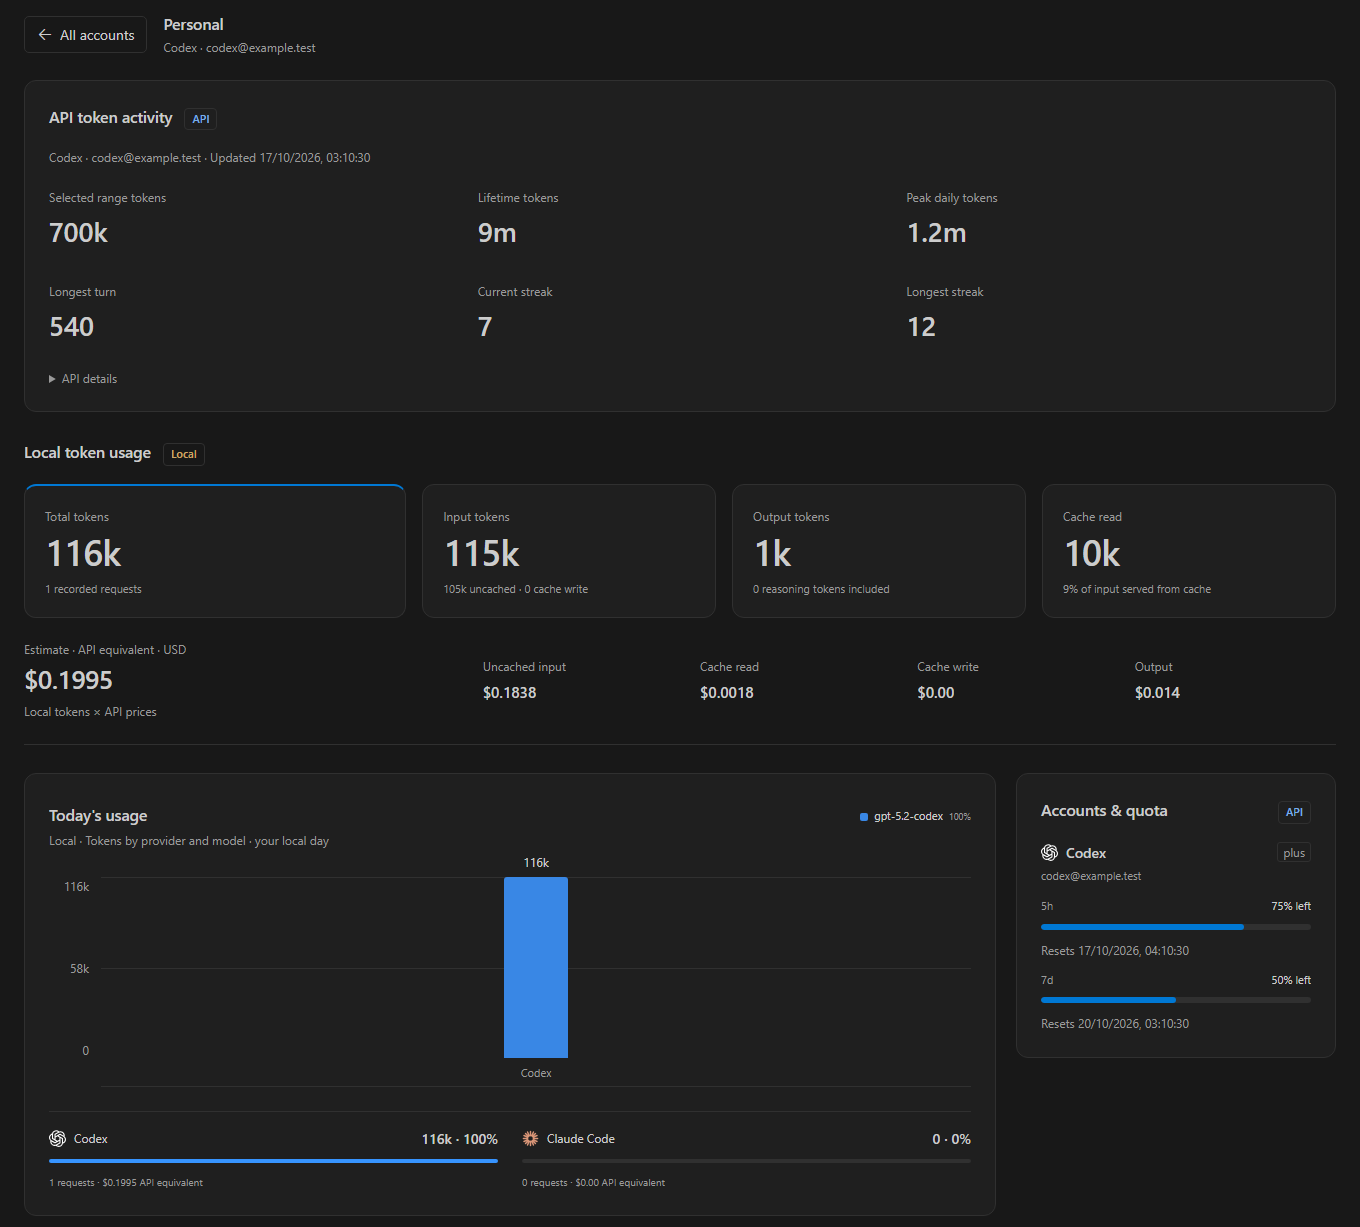
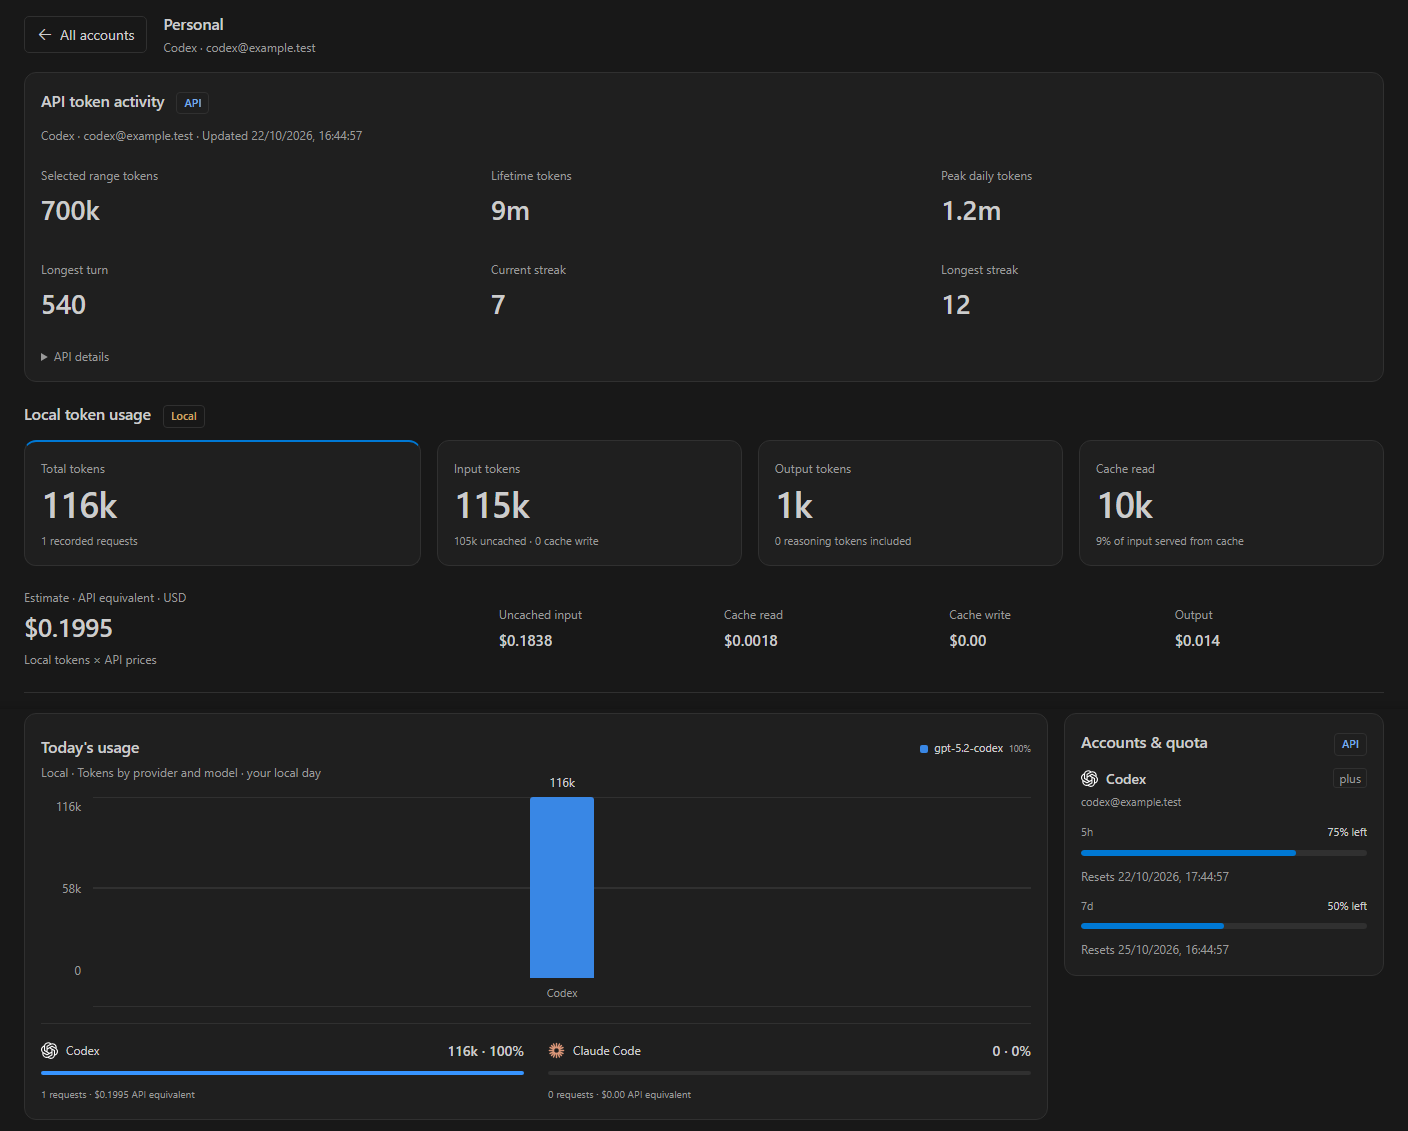
feat: add quota cycle capacity display and estimation logic

diff --git a/src/settings.ts b/src/settings.ts
@@ -738,6 +738,15 @@ function renderQuotaEstimates() {
         source.title = trend.source === 'API' ? 'API counters · token increase ÷ quota percentage-point increase' : trend.source === 'Device'
           ? 'Local history includes unknown, inferred and user-confirmed sessions. Other accounts with native turn evidence are excluded; usage on other devices is not recorded.' : 'Local · account-matched native turn history';
         row.append(amount, source);
+        const latestApi = trend.source === 'API' && meter ? trend.observations.find(sample => sample.resetsAt === meter.resetsAt && (!baseline || sample.from >= baseline.start.to)) : undefined;
+        const current = trend.source === 'API' ? latestApi : trend.observations.find(sample => sample.resetsAt > Date.now());
+        const cycleRate = current ? current.observedTokens / current.usedPercent : trend.tokensPerPercent;
+        const capacity = node('div', undefined, 'quota-cycle-capacity');
+        capacity.dataset.basis = current ? 'current' : 'history';
+        capacity.append(node('span', 'Estimated full cycle', 'muted'), node('strong', `≈ ${compact(cycleRate * 100)} tokens / cycle`),
+          node('small', current ? 'Based on this cycle’s recorded usage' : 'Based on the weighted average of recorded cycles', 'muted'));
+        capacity.title = `${number(Math.round(cycleRate * 100))} estimated tokens for 100% quota · ${number(cycleRate)} tokens / 1% × 100`;
+        row.append(capacity);
         if (trend.source === 'Device') row.append(node('small', 'Includes history without native turn identity', 'muted'));
         if (trend.changePercent !== undefined) {
           const change = Math.round(trend.changePercent * 10) / 10;
@@ -747,14 +756,12 @@ function renderQuotaEstimates() {
           comparison.title = `Earlier cycles: ${number(Math.round(trend.baselineTokensPerPercent!))} tokens / 1%`;
           row.append(comparison);
         }
-        const latestApi = trend.source === 'API' && meter ? trend.observations.find(sample => sample.resetsAt === meter.resetsAt && (!baseline || sample.from >= baseline.start.to)) : undefined;
         if (trend.source === 'API') {
           if (latestApi) {
             const rate = latestApi.observedTokens / latestApi.usedPercent;
             row.append(node('p', `≈ ${compact(rate * (100 - meter!.usedPercent))} tokens left`, 'muted'));
           } else row.append(node('p', waiting, 'muted'));
         } else {
-          const current = trend.observations.find(sample => sample.resetsAt > Date.now());
           const detail = node('p', current ? `≈ ${compact(current.observedTokens / current.usedPercent * (100 - current.usedPercent))} tokens left` : 'Waiting for current cycle usage', 'muted');
           if (current) detail.title = `${number(current.observedTokens)} tokens from ${new Date(current.from).toLocaleString()} to ${new Date(current.to).toLocaleString()}`;
           row.append(detail);

diff --git a/tests/settings.test.ts b/tests/settings.test.ts
@@ -428,6 +428,8 @@ describe('Settings usage dashboard', () => {
     expect(root.textContent).toContain('Device estimate · 2 cycles');
     expect(root.textContent).toContain('Includes history without native turn identity');
     expect(root.querySelector('.quota-estimate-value')!.getAttribute('title')).toBe('37,500 tokens per percentage point');
+    expect(root.querySelector('.quota-cycle-capacity')?.getAttribute('data-basis')).toBe('current');
+    expect(root.querySelector('.quota-cycle-capacity')?.getAttribute('title')).toContain('5,000,000 estimated tokens for 100% quota');
     const latest = root.querySelectorAll('.quota-trend-history tbody tr:first-child td');
     expect(latest[0]?.textContent).toContain('current'); expect(latest[0]?.getAttribute('title')).toContain('Partial observation');
     expect(latest[1]?.textContent).toBe('100% → 80%');
@@ -476,6 +478,8 @@ describe('Settings usage dashboard', () => {
     expect(cells[3]?.textContent).toBe('2');
     expect(cells[4]?.getAttribute('title')).toBe('200,000 tokens ÷ 2 percentage points');
     expect(root.textContent).toContain('8.2M tokens left');
+    expect(root.querySelector('.quota-cycle-capacity')?.textContent).toContain('≈ 10M tokens / cycle');
+    expect(root.querySelector('.quota-cycle-capacity')?.getAttribute('data-basis')).toBe('current');
     const before = root.textContent; choose('filter-provider', 'Claude'); expect(root.textContent).toBe(before);
   });
   it('shows legacy API deltas without inventing a 100% starting point', () => {
@@ -487,6 +491,8 @@ describe('Settings usage dashboard', () => {
     const cells = document.querySelectorAll('.quota-trend-history tbody tr:first-child td');
     expect(cells[1]?.textContent).toBe('Start unknown'); expect(cells[2]?.textContent).toBe('200,000');
     expect(cells[3]?.textContent).toBe('2');
+    expect(document.querySelector('.quota-cycle-capacity')?.getAttribute('title')).toContain('10,000,000 estimated tokens for 100% quota');
+    expect(document.querySelector('.quota-cycle-capacity')?.getAttribute('data-basis')).toBe('history');
   });
   it('filters restore history, selects visible conversations, previews impact and sends only the delete token', () => {
     const group = (id: string, projectId: string, kind: 'checkpoints' | 'undo' = 'checkpoints') => ({ id, projectId, project: `L:/Code/${projectId}`, label: kind === 'undo' ? 'Last restore backup' : `Codex:${id}`, kind, count: 2, bytes: 1024, reclaimable: 512, createdAt: 1000, updatedAt: 2000 });

diff --git a/media/settings.css b/media/settings.css
@@ -264,6 +264,9 @@ h2 { font-size: 16px; font-weight: 600; margin: 0; letter-spacing: -.2px; }
 .quota-estimate-label strong { font-size: 12px; font-weight: 500; }
 .quota-estimate-value { display: block; font-size: 19px; font-weight: 500; font-variant-numeric: tabular-nums; margin-top: 8px; }
 .quota-estimate-row p { margin: 5px 0 0; }
+.quota-cycle-capacity { display: grid; gap: 3px; margin-top: 12px; font-variant-numeric: tabular-nums; }
+.quota-cycle-capacity > span, .quota-cycle-capacity > small { font-size: 11px; }
+.quota-cycle-capacity > strong { font-size: 17px; font-weight: 500; }
 .quota-estimate-note { margin: 12px 0 0; max-width: 95ch; }
 .quota-trend-latest, .quota-trend-change { font-size: 12px; font-variant-numeric: tabular-nums; }
 .quota-trend-change[data-direction=up] { color: var(--vscode-charts-green, #27865c); }

diff --git a/README.md b/README.md
@@ -47,6 +47,8 @@ Run **AgentTandem: Manage Accounts**, or open **Settings → Accounts**. Filter 
 2. Select **Switch account** to update the default CLI or IDE sign-in. Finish active agent turns first; close Cursor/Antigravity windows before switching and reopen the app afterward.
 3. Follow the progress dialog and timestamped log. **Hide** keeps the operation running; **View switch log** reopens the latest result. The switch saves the outgoing sign-in, verifies the selected identity and attempts rollback if verification fails.
 
+After a Codex or Claude Code switch, select **Restart Extension Host** to let the native VS Code extension pick up the new sign-in, or **Later** to defer it.
+
 ![Account manager with app filters, search and fictional Codex, Claude Code, Cursor and Antigravity profiles](media/screenshots/accounts.png)
 
 Click a provider's quota in the VS Code status bar for **quick account switching**, remaining quota and reset details. **Open dashboard** and **Manage accounts** are separate shortcuts. In the dashboard, **View usage** selects an account's statistics without switching its sign-in.
@@ -96,9 +98,28 @@ Each quota window (Codex/Claude Code × 5h/7d) gets a card plotting **remaining 
 
 ### Tokens per 1% quota
 
-Each provider takes a full-width row with its 5h and Weekly windows side by side. Estimates show how many tokens one percent of each quota window buys, the tokens left in the current cycle and the change against earlier cycles. **Tokens per reset cycle** lists recorded tokens, the full-cycle estimate at 100% and the change from the previous cycle. API, Local and Device estimates are kept separate. Other devices, model mix and incomplete history can affect these estimates. Local totals cover recorded history on this machine; they cannot include deleted or unlogged usage elsewhere.
+Each provider has separate **5h** and **Weekly** windows. **Estimated full cycle** shows approximately how many tokens a full reset cycle represents: recorded tokens ÷ quota percentage points used × 100. It uses the current cycle's recorded ratio when available, or the weighted average of recorded cycles, with the basis shown below the estimate. Estimated tokens left appear alongside it.
 
-![Tokens per 1% quota estimates per account and window with per-reset-cycle tables](media/screenshots/tokens-per-quota.png)
+The interval bar shows the quota readings and their recorded tokens, such as **100% → 75% remaining: 804,531 tokens**. Recording that starts partway through a cycle shows that actual interval, such as **84% → 82%**. Older API records without a saved starting reading show **Start unknown**.
+
+![Codex 5h and Weekly full-cycle token estimates, quota intervals, token-per-percent line charts and detailed cycle tables](media/screenshots/tokens-per-quota.png)
+
+Use **Chart metric** to switch between:
+
+- **Tokens / 1%** — a line chart of cycle ratios, with the weighted average as a dashed line.
+- **Recorded tokens** — bars showing the tokens actually recorded in each cycle.
+- **Full quota estimate** — bars extrapolating each observed ratio to a full cycle.
+
+Hover or focus a chart point to inspect its reset date, quota interval, recorded tokens and token/1% ratio. Charts show the latest 12 cycles. **Tokens per reset cycle** lists exact recorded counts, quota used, observation times and estimated capacity; **Calculation details** explains the formula. The overall average divides total recorded tokens by total quota percentage points across all recorded cycles.
+
+<details>
+<summary>Recorded tokens and full-cycle estimate charts</summary>
+
+![Codex recorded-token bars for 5h cycles and estimated full-cycle token bars for Weekly cycles](media/screenshots/quota-cycle-tokens.png)
+
+</details>
+
+API, Local and Device estimates stay separate. A full-cycle estimate is an extrapolation, not a fixed token allowance. Model mix, cache usage, usage on other devices and incomplete local history can change the ratio. Local recorded counts may cover only part of the account's usage.
 
 ### Conversations and breakdowns
 
